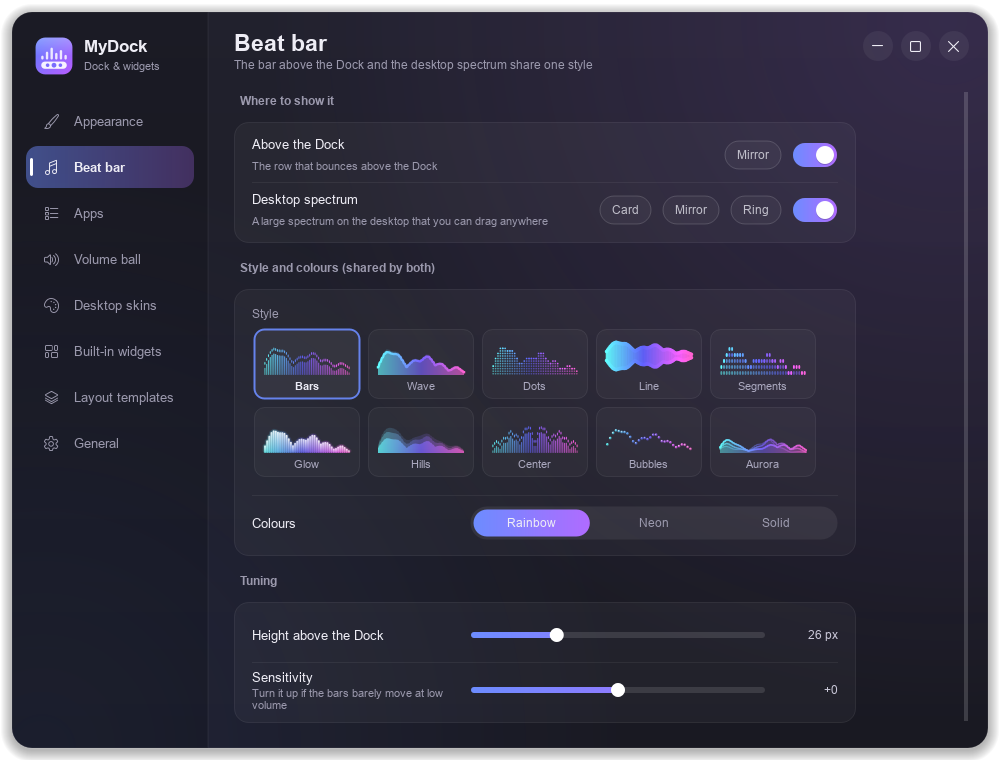
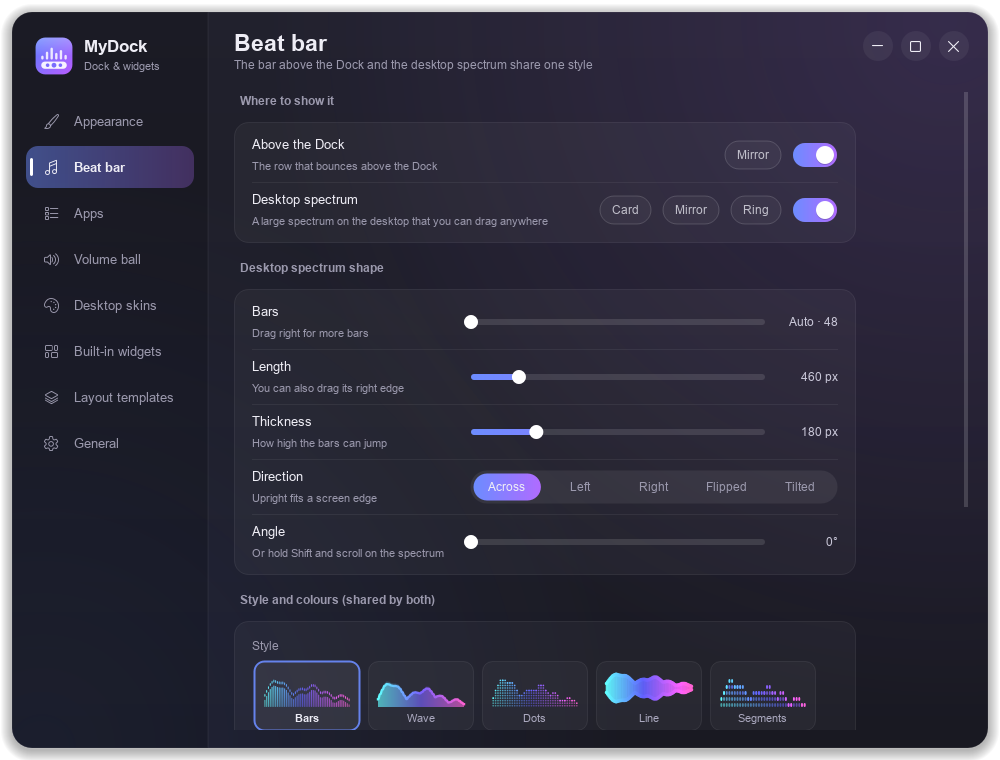
Beat bar shape (bars, length, thickness, direction), resizable music cards, speaker switching

diff --git a/README.md b/README.md
@@ -82,6 +82,8 @@ Theme, your own colour, *Match wallpaper colours*, icon size, magnification, spa
 ### Beat bar
 Show bars above the Dock and/or a large spectrum on the desktop (card, mirror or ring, with the cover inside). Pick one of 10 styles and a colour mode; *Sensitivity* helps if the bars barely move at low volume.
 
+**Desktop spectrum shape:** set the number of bars (up to 160), the length and the thickness, and turn it any way you like: across, upright along the left or right edge of the screen, upside down, or tilted at any angle. You can also drag its edges to stretch it, or hold **Shift** and scroll on it to turn it.
+
 <p align="center"><img src="docs/images/beat_bar.png" alt="Beat bar page" width="80%"></p>
 
 ### Apps
@@ -95,7 +97,7 @@ A small ball on the edge of the screen. Click it to change the volume, switch sp
 <p align="center"><img src="docs/images/volume_ball.png" alt="Volume ball page" width="80%"></p>
 
 ### Built-in widgets
-Turn each widget on and set its own options. For the music card: style (cards, bar, big cover, vinyl, lyrics), lyrics, a pop-up when the song changes, a blurred cover background and *Hide when nothing is playing*. **Appearance** sets one look for all widgets and **Placement** lines them up neatly.
+Turn each widget on and set its own options. For the music card: style (cards, bar, big cover, vinyl, lyrics), lyrics, a pop-up when the song changes, a blurred cover background and *Hide when nothing is playing*. Make a music card bigger and its layout changes with it: the vinyl and cover styles put a large record or cover on top with the song below. The volume button on the card also lets you switch speakers. **Appearance** sets one look for all widgets and **Placement** lines them up neatly.
 
 <p align="center"><img src="docs/images/widgets.png" alt="Built-in widgets page" width="80%"></p>
 

diff --git a/docs/README.zh-CN.md b/docs/README.zh-CN.md
@@ -58,6 +58,8 @@
 ### 律动条
 Dock 上方的律动条，和桌面上的大频谱（卡片、镜像、圆环，中间可以放封面）。10 种样式、几种配色；音量小时条不太动，就把「灵敏度」调高。
 
+**桌面频谱的形状：**可以调条数（最多 160 条）、长度、粗细，还能随便转：横放、竖着贴在屏幕左边或右边、倒过来，或者斜着放任何角度。直接拖频谱的边也能拉长，在频谱上按住 **Shift** 滚滚轮就能慢慢转。
+
 <p align="center"><img src="images/beat_bar.png" alt="律动条" width="80%"></p>
 
 ### 程序
@@ -71,7 +73,7 @@ Dock 上所有程序的列表：从已安装的程序里挑、选文件，或加
 <p align="center"><img src="images/volume_ball.png" alt="音量球" width="80%"></p>
 
 ### 内置组件
-每个组件单独开关和设置。音乐卡片可以选样式（卡片、宽条、大封面、黑胶、歌词）、显示歌词、换歌时弹出提示、模糊封面背景、没在播放时隐藏。「外观」一次统一所有组件的风格，「摆放和对齐」帮你排整齐。
+每个组件单独开关和设置。音乐卡片可以选样式（卡片、宽条、大封面、黑胶、歌词）、显示歌词、换歌时弹出提示、模糊封面背景、没在播放时隐藏。把音乐卡片拉大，排版也会跟着变：黑胶和大封面样式会把唱片或封面大大地放在上面，歌名在下面。卡片上的音量按钮也能切换音响。「外观」一次统一所有组件的风格，「摆放和对齐」帮你排整齐。
 
 <p align="center"><img src="images/widgets.png" alt="内置组件" width="80%"></p>
 

diff --git a/CHANGELOG.md b/CHANGELOG.md
@@ -20,5 +20,11 @@ First official release. 第一个正式版本。
   YouTube 密钥的设置向导改成一步一步、写清楚每个按钮。
 - Changing the language asks first, then MyDock restarts by itself and shows "back in a moment".
   换语言会先问你，然后自动重启，屏幕上方显示「马上回来」。
+- **Beat bar shape:** number of bars (up to 160), length and thickness; turn it across, upright on the left / right edge, upside down or to any angle (Shift + scroll on it).
+  律动条形状：可以调条数（最多 160）、长度、粗细；横放、竖着贴左边 / 右边、倒过来，或者斜着放任何角度（在频谱上 Shift + 滚轮）。
+- Music cards change their layout when you make them bigger (big vinyl or cover on top, song below).
+  音乐卡片拉大后排版会跟着变（大唱片或大封面在上面，歌名在下面）。
+- Volume ball and music card: switch speakers from a button; play and pause now have different icons.
+  音量球和音乐卡片：有按钮可以切换音响；播放和暂停的图标不再一样。
 - The language picked in the installer is used by MyDock; the installer is fully translated.
   安装时选的语言就是 MyDock 的语言；安装程序也全部翻译好了。
